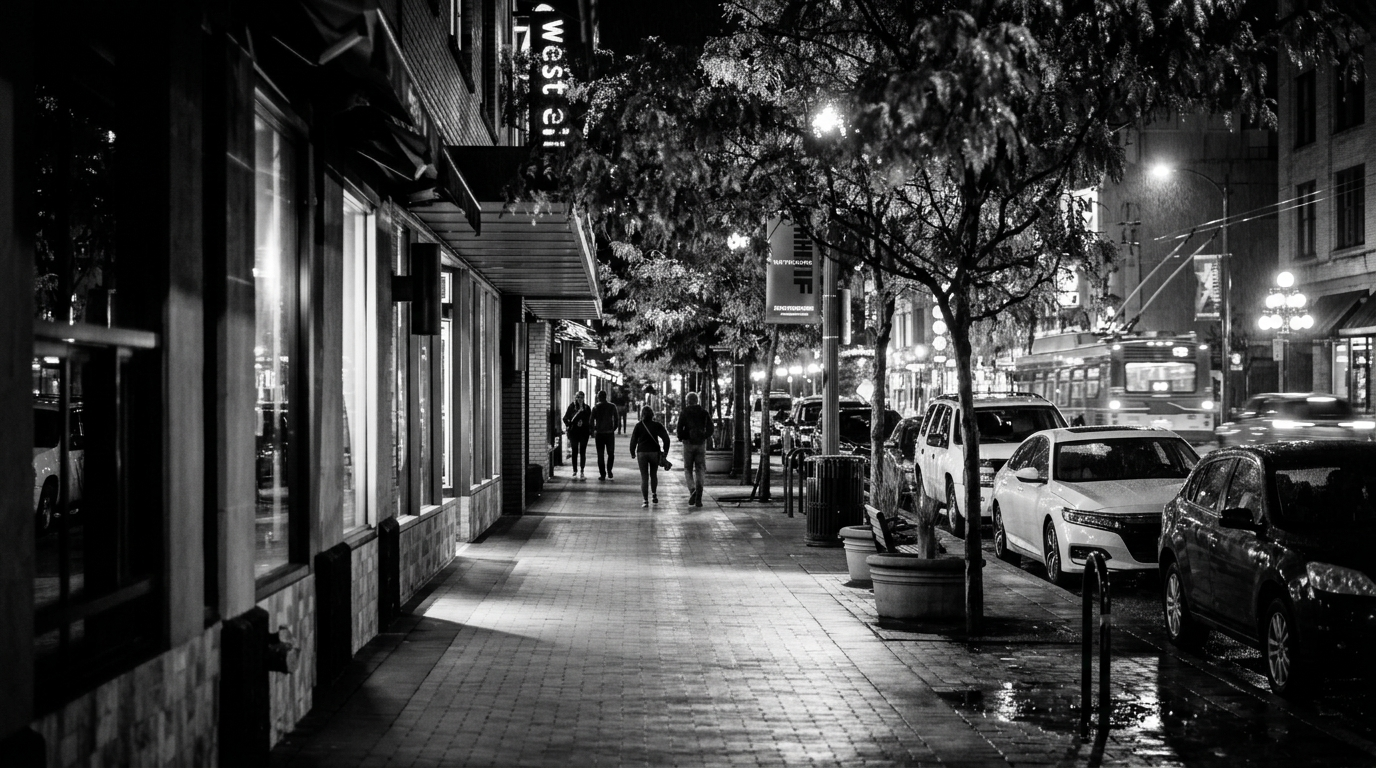
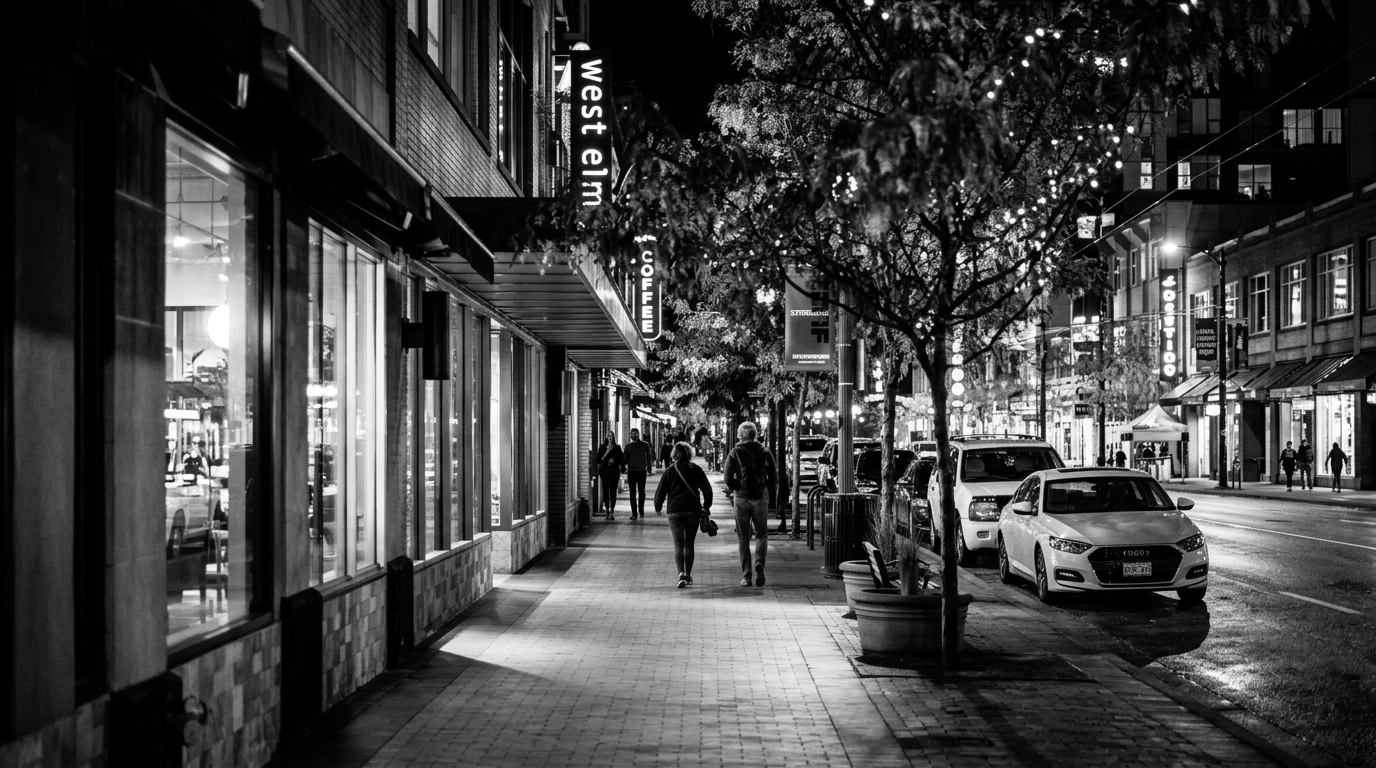
feat(manifesto): deploy 8K ultra high-res street image and enhance typography contrast with dark editorial card

diff --git a/mander-site/app/page.js b/mander-site/app/page.js
@@ -78,29 +78,29 @@ export default function HomePage() {
         {/* Manifesto Content */}
         <div className="relative z-10 container-max py-24 sm:py-32 w-full">
           <Reveal>
-            <div className="max-w-3xl">
+            <div className="max-w-3xl bg-black/70 backdrop-blur-md border border-white/15 p-8 sm:p-12 shadow-2xl rounded-sm">
               {/* Eyebrow badge with signature Pacific red accent */}
               <div className="flex items-center gap-3 mb-6">
                 <span className="h-2 w-2 rounded-full bg-accent animate-pulse" />
-                <span className="font-mono text-label-caps text-white/80 tracking-[0.24em]">
+                <span className="font-mono text-label-caps text-white/90 tracking-[0.24em]">
                   01 // STUDIO MANIFESTO
                 </span>
                 <span className="h-px w-12 bg-white/30 hidden sm:inline-block" />
               </div>
 
               {/* Bold Manifesto Headline */}
-              <h2 className="font-display text-[2.8rem] sm:text-[4rem] lg:text-[5.4rem] text-white leading-[0.92] tracking-tight mb-8 text-balance">
+              <h2 className="font-display text-[2.8rem] sm:text-[4rem] lg:text-[5.4rem] text-white leading-[0.92] tracking-tight mb-8 text-balance drop-shadow-md">
                 BUILT FOR THE CITY.<br />
-                <span className="italic font-light text-white/90">MADE FOR GROWTH.</span>
+                <span className="italic font-light text-white/95">MADE FOR GROWTH.</span>
               </h2>
 
               {/* Minimal Supporting Copy */}
-              <p className="font-sans text-body-lg text-white/80 leading-relaxed font-light mb-10 max-w-xl">
+              <p className="font-sans text-body-lg text-white/90 leading-relaxed font-light mb-10 max-w-xl drop-shadow-sm">
                 Mander is an independent digital studio creating distinctive websites, identities and digital experiences for ambitious businesses in Vancouver and beyond.
               </p>
 
               {/* Micro Technical Metadata Stamp */}
-              <div className="border-t border-white/20 pt-5 flex flex-wrap items-center justify-between gap-4 max-w-xl font-mono text-[10px] uppercase tracking-[0.25em] text-white/60">
+              <div className="border-t border-white/20 pt-5 flex flex-wrap items-center justify-between gap-4 max-w-xl font-mono text-[10px] uppercase tracking-[0.25em] text-white/70">
                 <div className="flex items-center gap-2">
                   <span className="text-white font-semibold">49°16&apos;59&quot;N</span>
                   <span>123°07&apos;15&quot;W</span>
